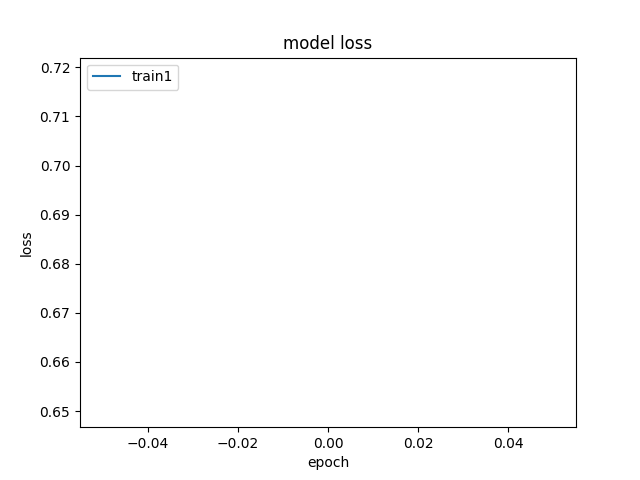
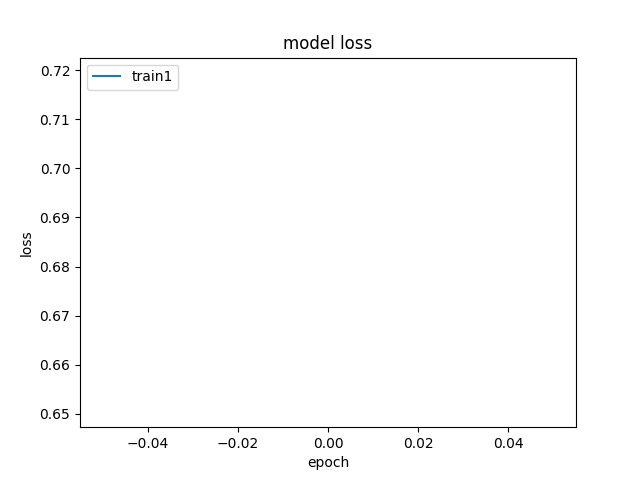
Prepared for all loop run

diff --git a/helper_funct.py b/helper_funct.py
@@ -85,27 +85,27 @@ def train_model(x_train, y_train, validation_split, epoch_train, mini_batch_size
     model3 = clone_model(model)
     model4 = clone_model(model)
     model1.compile(loss='binary_crossentropy', optimizer=RMSprop(lr=learning_rate), metrics=['accuracy'])
-    # model2.compile(loss='binary_crossentropy', optimizer=RMSprop(lr=learning_rate), metrics=['accuracy'])
-    # model3.compile(loss='binary_crossentropy', optimizer=RMSprop(lr=learning_rate), metrics=['accuracy'])
-    # model4.compile(loss='binary_crossentropy', optimizer=RMSprop(lr=learning_rate), metrics=['accuracy'])
+    model2.compile(loss='binary_crossentropy', optimizer=RMSprop(lr=learning_rate), metrics=['accuracy'])
+    model3.compile(loss='binary_crossentropy', optimizer=RMSprop(lr=learning_rate), metrics=['accuracy'])
+    model4.compile(loss='binary_crossentropy', optimizer=RMSprop(lr=learning_rate), metrics=['accuracy'])
 
-    history1 = model1.fit(x_train[0], y_train[0], epochs=1, batch_size=mini_batch_size, callbacks=callbacks)
-    # history2 = model2.fit(x_train[1], y_train[1], epochs=epoch_train, batch_size=mini_batch_size, callbacks=callbacks)
-    # history3 = model3.fit(x_train[2], y_train[2], epochs=epoch_train, batch_size=mini_batch_size, callbacks=callbacks)
-    # history4 = model4.fit(x_train[3], y_train[3], epochs=epoch_train, batch_size=mini_batch_size, callbacks=callbacks)
+    history1 = model1.fit(x_train[0], y_train[0], epochs=epoch_train, batch_size=mini_batch_size, callbacks=callbacks)
+    history2 = model2.fit(x_train[1], y_train[1], epochs=epoch_train, batch_size=mini_batch_size, callbacks=callbacks)
+    history3 = model3.fit(x_train[2], y_train[2], epochs=epoch_train, batch_size=mini_batch_size, callbacks=callbacks)
+    history4 = model4.fit(x_train[3], y_train[3], epochs=epoch_train, batch_size=mini_batch_size, callbacks=callbacks)
 
     plot_hist(history1, 1)
-    # plot_hist(history2, 2)
-    # plot_hist(history3, 3)
-    # plot_hist(history4, 4)
+    plot_hist(history2, 2)
+    plot_hist(history3, 3)
+    plot_hist(history4, 4)
 
     # Predicting the test data labels
     predicted_labels[0] = model1.predict(x_test[0])
-    # predicted_labels[1] = model2.predict(x_test[1])
-    # predicted_labels[2] = model3.predict(x_test[2])
-    # predicted_labels[3] = model4.predict(x_test[3])
+    predicted_labels[1] = model2.predict(x_test[1])
+    predicted_labels[2] = model3.predict(x_test[2])
+    predicted_labels[3] = model4.predict(x_test[3])
 
-    for i in range(0, 1):#n_folds):
+    for i in range(0, n_folds):
         a = np.array([predicted_labels[i][:, 0]]).transpose()
         b = np.array([predicted_labels[i][:, 1]]).transpose()
         a = np.array(a >= b).astype(int)
